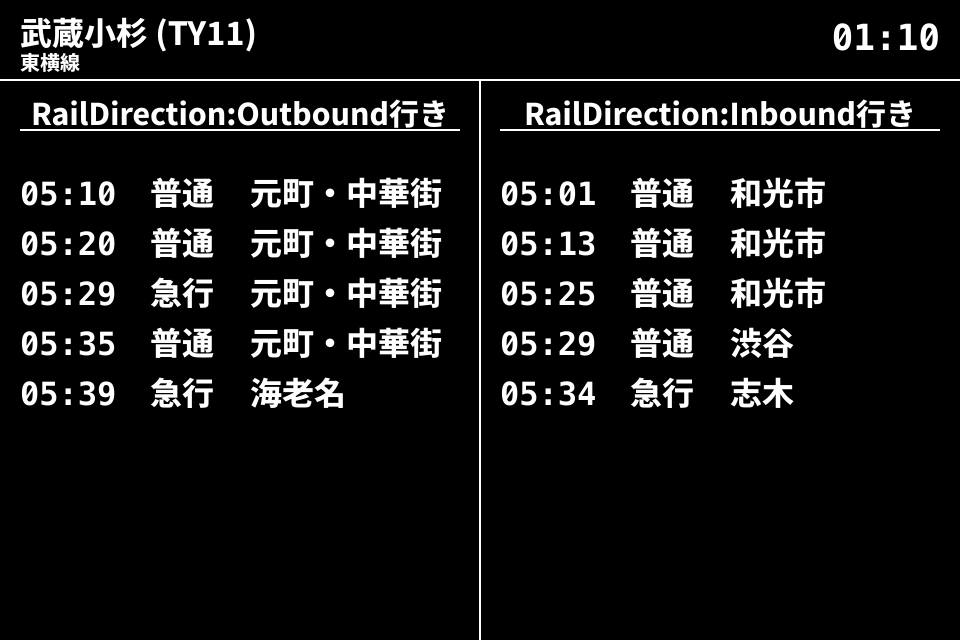
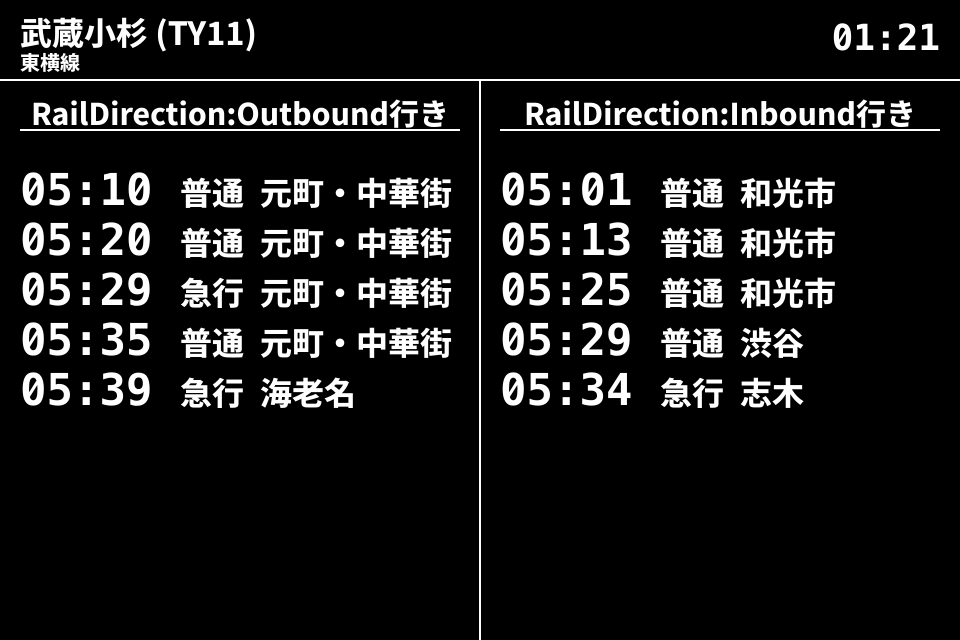
Adjust font size

Changed region(s): [[0.0, 0.25, 0.4688, 0.6562], [0.5, 0.25, 0.875, 0.6562], [0.9375, 0.0312, 1.0, 0.0938]]

diff --git a/scripts/rpi-eink/render-to-image.js b/scripts/rpi-eink/render-to-image.js
@@ -463,19 +463,19 @@ function drawBoard(canvas, ctx, data, useCustomFonts = false) {
 
       // Time
       ctx.fillStyle = '#FFFFFF';
-      ctx.font = `bold 32px ${monoFont}`;
+      ctx.font = `bold 44px ${monoFont}`;
       ctx.fillText(dep.time, x + 20, y);
 
       // Train type
       const trainType = getTrainTypeName(dep.trainType);
       ctx.font = `bold 32px ${fontName}`;
       ctx.fillStyle = '#FFFFFF';
-      ctx.fillText(trainType, x + 150, y);
+      ctx.fillText(trainType, x + 180, y);
 
       // Destination
       const dest = getDestinationName(dep.destination, stationNameCache);
       ctx.font = `bold 32px ${fontName}`;
-      const destX = x + 250;
+      const destX = x + 260;
       if (destX + 10 < x + columnWidth - 10) {
         ctx.fillText(dest, destX, y);
       }
